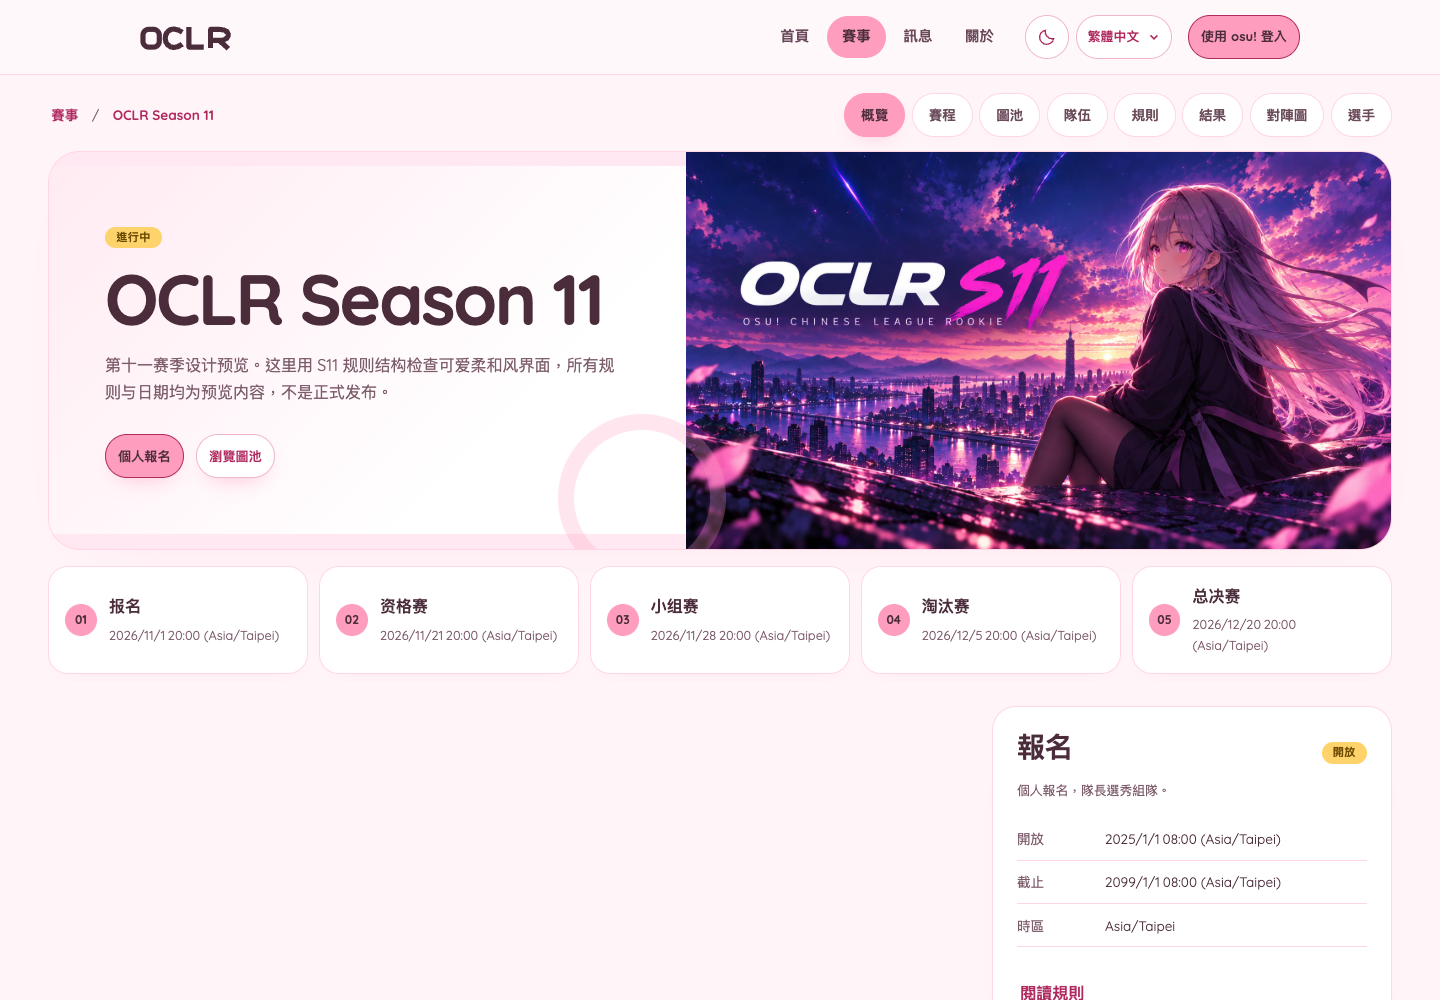
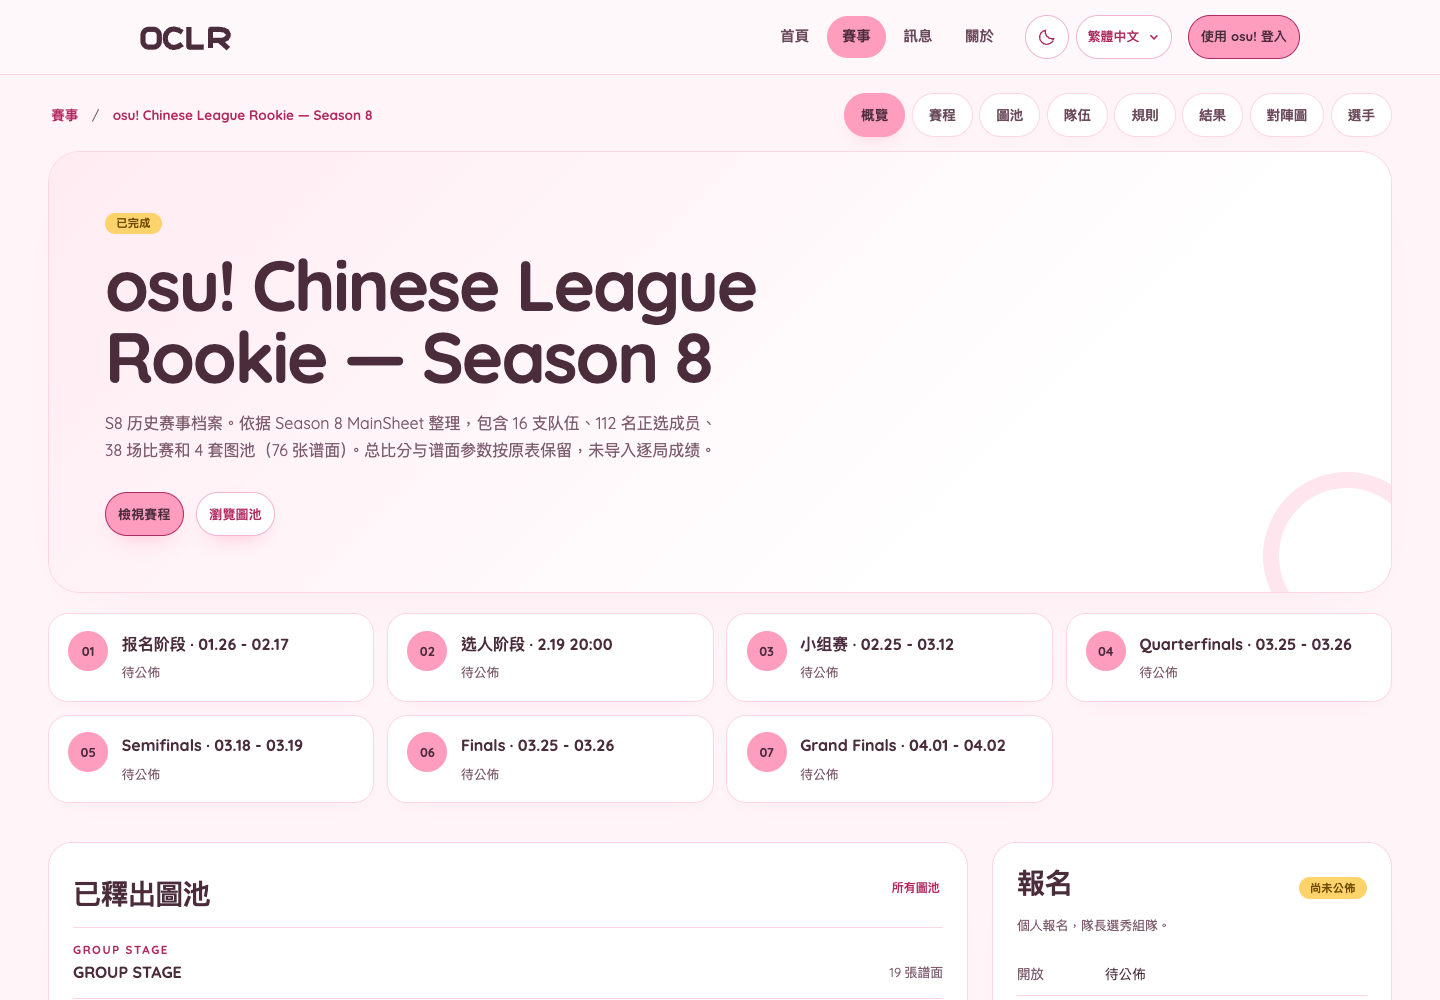
fix: give tournament milestones room and keep step numbers round
The step markers were shrinking horizontally into ovals inside the flex row, and seven S8 milestones were squeezed into 190px cards. Markers now keep a 40px square basis and the cards size to their labels: a 4-up grid at >=1200px, and a keyboard-focusable, horizontally scrollable row below it. Also refresh the overview design reference with the published S8 archive.

diff --git a/src/app/public-pastel.css b/src/app/public-pastel.css
@@ -512,27 +512,77 @@ html[data-theme="dark"] .themed-site.public-site .badge {
   letter-spacing: -0.03em;
 }
 
+.themed-site.public-site .event-milestones {
+  gap: 0.8rem;
+  padding: 0.25rem 0.25rem 0.9rem;
+  scroll-padding-inline: 0.25rem;
+  scroll-snap-type: x proximity;
+  overscroll-behavior-inline: contain;
+  scrollbar-width: thin;
+  scrollbar-color: var(--site-control-border) transparent;
+}
+
 .themed-site.public-site .event-milestones li {
+  flex: 0 0 auto;
+  min-width: 230px;
+  max-width: min(360px, calc(100vw - 3rem));
+  align-items: flex-start;
+  gap: 0.85rem;
+  padding: 1.05rem 1.2rem;
+  scroll-snap-align: start;
   border: 1.5px solid var(--site-border);
   border-radius: 1.25rem;
   background: var(--site-surface);
   box-shadow: 0 12px 24px -20px var(--site-shadow);
 }
 
+.themed-site.public-site .event-milestones li > div {
+  min-width: 0;
+}
+
+.themed-site.public-site .event-milestones strong {
+  line-height: 1.4;
+}
+
 .themed-site.public-site .event-step {
   display: grid;
+  flex: 0 0 2.5rem;
   place-items: center;
-  width: 2rem;
-  height: 2rem;
+  align-self: flex-start;
+  width: 2.5rem;
+  height: 2.5rem;
+  min-width: 2.5rem;
+  aspect-ratio: 1;
+  box-sizing: border-box;
   padding: 0;
   border-radius: 50%;
   background: var(--site-primary);
   color: var(--site-on-primary);
+  font-size: 0.8rem;
+  line-height: 1;
 }
 
 .themed-site.public-site .event-pool-list a,
 .themed-site.public-site .event-team-links li {
   border-color: var(--site-border);
+}
+
+/* Seven-stage events need room for the full label; give desktop a 4-up grid
+ * instead of shrinking every card to a narrow strip. Tablets and phones keep
+ * the content-sized, horizontally scrollable row. */
+@media (min-width: 1200px) {
+  .themed-site.public-site .event-milestones {
+    display: grid;
+    grid-template-columns: repeat(4, minmax(0, 1fr));
+    overflow: visible;
+    padding-inline: 0;
+  }
+
+  .themed-site.public-site .event-milestones li {
+    flex: none;
+    min-width: 0;
+    max-width: none;
+  }
 }
 
 /* Shared surfaces, tables and forms. */

diff --git a/src/app/tournaments/[edition]/page.tsx b/src/app/tournaments/[edition]/page.tsx
@@ -86,6 +86,7 @@ export default async function Overview({
         <ol
           className="event-milestones"
           aria-label={tr("Tournament milestones")}
+          tabIndex={0}
         >
           {edition.schedule.map((event, i) => (
             <li key={i}>

diff --git a/docs/design/cute-pastel/README.md b/docs/design/cute-pastel/README.md
@@ -8,7 +8,7 @@ Reference supplied by the organizer as `osu! Cup 賽事官網.html` (a local pro
 | --- | --- | --- |
 | ![Rules desktop](preview/rules-1440.png) | ![Rules mobile](preview/rules-390.png) | ![Rules dark](preview/rules-dark-1440.png) |
 
-The screenshots use a disposable local preview database: S11 structure as example rules, synthetic milestone dates and a synthetic overview summary. They are references for the visual direction, not approved tournament data or published rules.
+The overview screenshot uses the published S8 archive for milestone-card proportions; the rules screenshots use a disposable local preview database with the S11 rulebook as example content. They are references for the visual direction, not a new rules release or a claim about S11 dates.
 
 ## Scope
 
